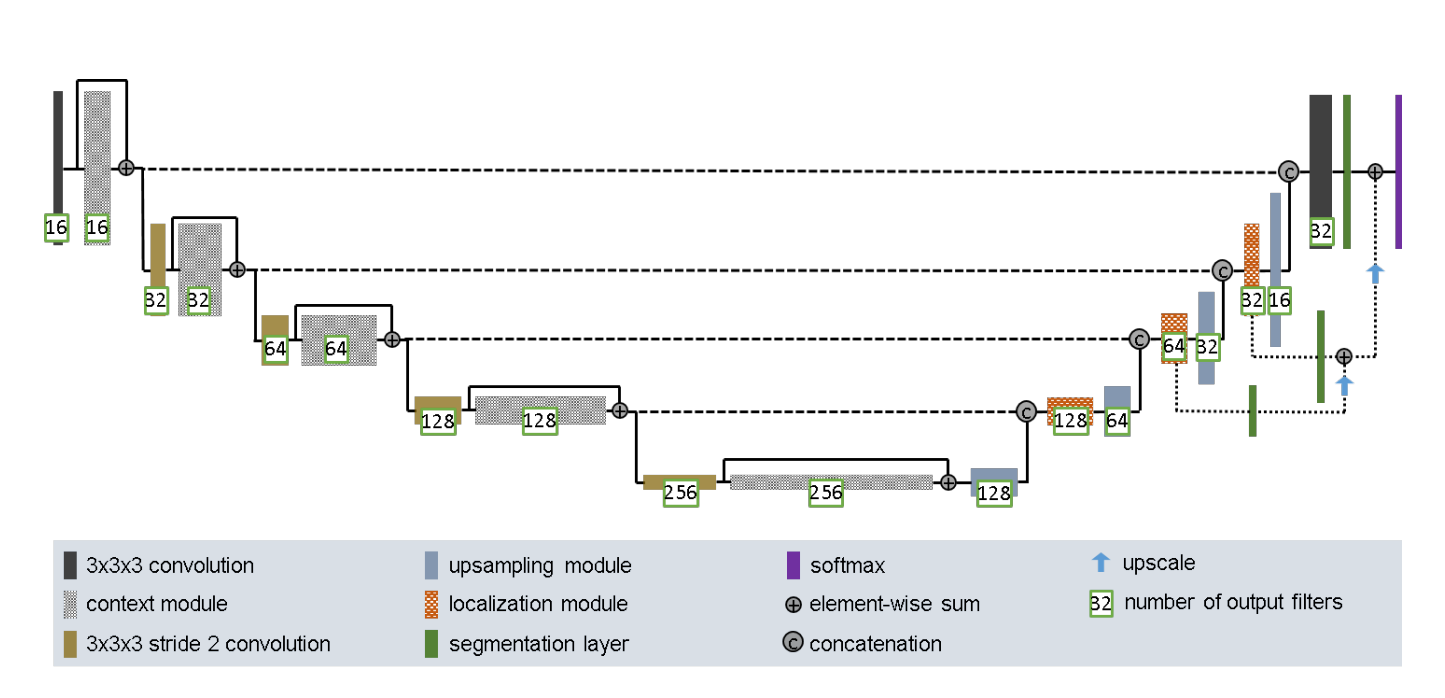
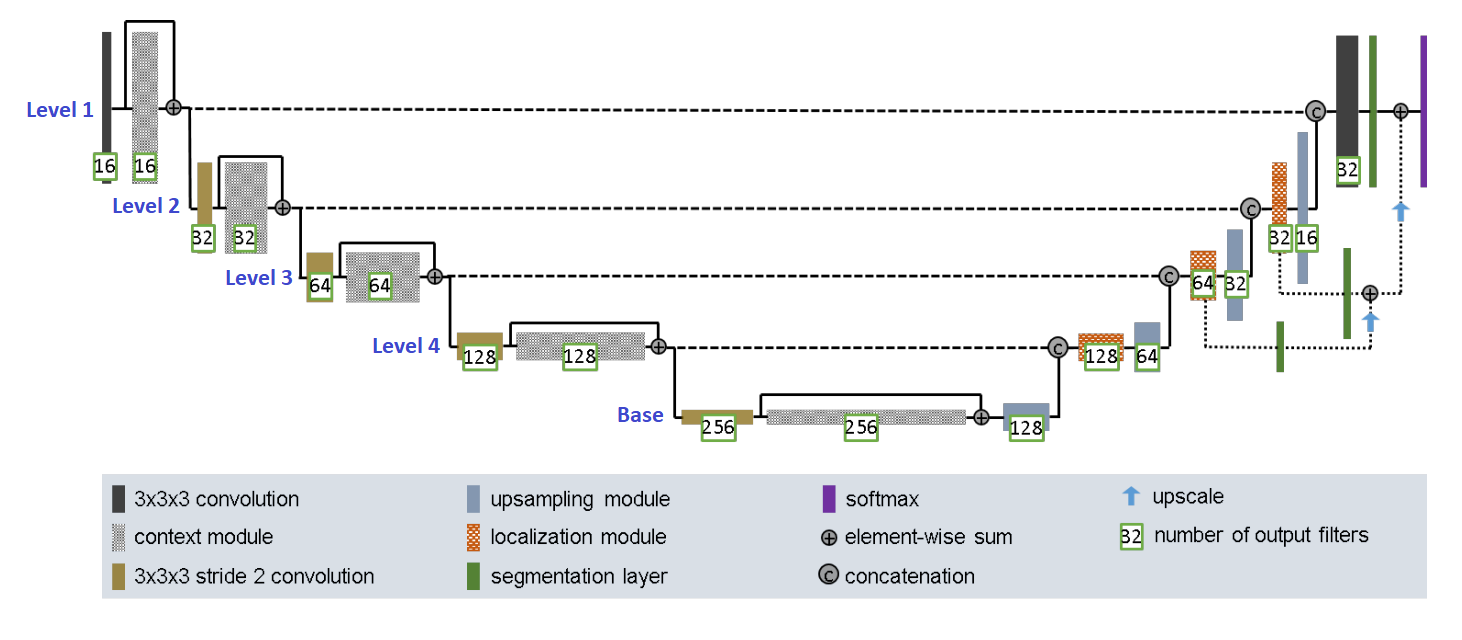
Completed level 4 and base of the model, added annotated image of the improved unet architecture

Changed region(s): [[0.0, 0.0312, 0.9965, 0.9688]]

diff --git a/recognition/ISIC-ImprovedUnet-44961374/model.py b/recognition/ISIC-ImprovedUnet-44961374/model.py
@@ -107,7 +107,20 @@ def create_model():
     conv_layer_3 = create_conv2d(add_layer_2, INIT_NO_FILTERS * 4, KERNEL_SIZE, (2, 2))
     context_3 = context_module(conv_layer_3, INIT_NO_FILTERS * 4)
     add_layer_3 = Add()([conv_layer_3, context_3])
-    print("Working so far") 
+    # level 4
+    conv_layer_4 = create_conv2d(add_layer_3, INIT_NO_FILTERS * 8, KERNEL_SIZE, (2, 2))
+    context_4 = context_module(conv_layer_4, INIT_NO_FILTERS * 8)
+    add_layer_4 = Add()([conv_layer_4, context_4])
+    # base
+    conv_layer_5 = create_conv2d(add_layer_4, INIT_NO_FILTERS * 16, KERNEL_SIZE, (2, 2))
+    context_5 = context_module(conv_layer_5, INIT_NO_FILTERS * 16)
+    add_layer_5 = Add()([conv_layer_5, context_5])
+    ########## EXPANSIVE PATH ##########
+    # base
+    upsample_1 = upsampling_module(add_layer_5, INIT_NO_FILTERS * 8)
+    # leve 4 
+
+    print("Working so far")
 
 create_model()
 
